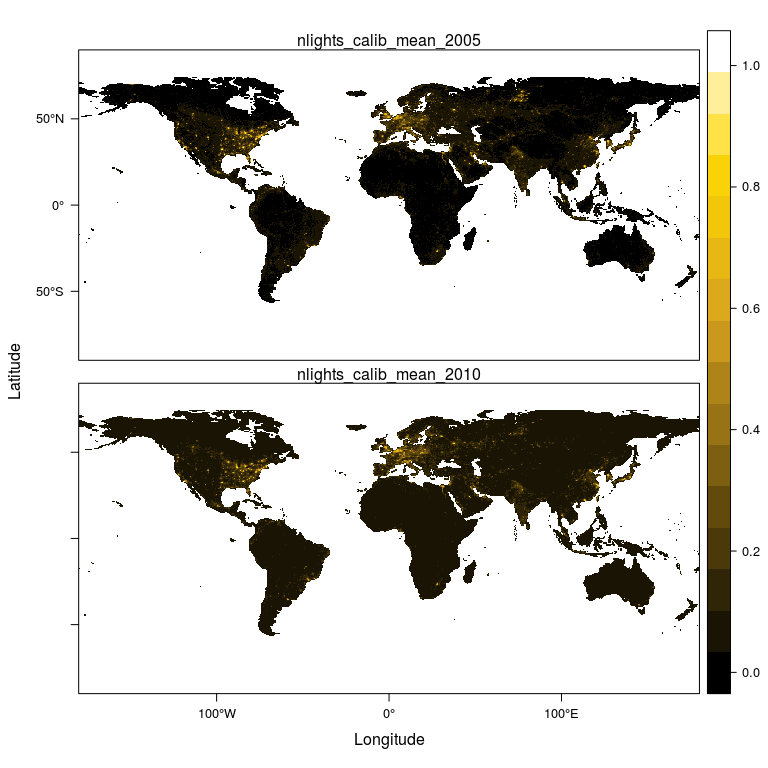
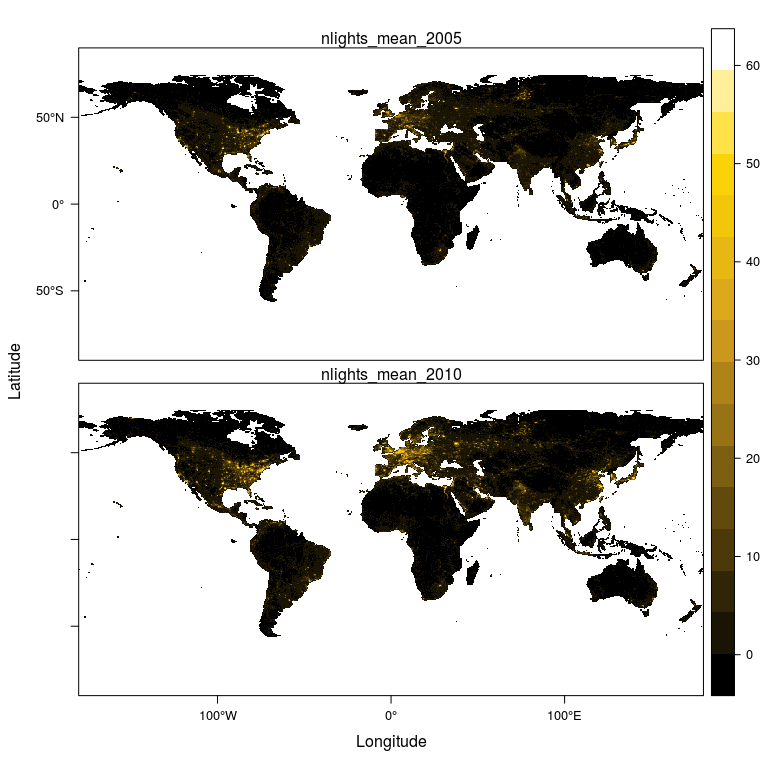
Updated nightlights example.

diff --git a/README.md b/README.md
@@ -86,7 +86,7 @@ Note that `getPrioRaster` returns a list with two elements: (1) the
 actual raster data, and (2) a data frame containing meta data.
 
     ## Get raster data
-    prio.ls <- getPrioRaster(names = c('ttime_mean', 'nlights_calib_mean'), years = 2005:2010)
+    prio.ls <- getPrioRaster(names = c('ttime_mean', 'nlights_mean'), years = 2005:2010)
     prio.vx <- prio.ls$raster
     meta.df <- prio.ls$meta
 
@@ -95,13 +95,13 @@ The meta data frame links the requested variables to the raster bands:
     ## Show meta data
     head(meta.df)
 
-    ##                 name year band
-    ## 1 nlights_calib_mean 2005    1
-    ## 2 nlights_calib_mean 2006    2
-    ## 3 nlights_calib_mean 2007    3
-    ## 4 nlights_calib_mean 2008    4
-    ## 5 nlights_calib_mean 2009    5
-    ## 6 nlights_calib_mean 2010    6
+    ##           name year band
+    ## 1 nlights_mean 2005    1
+    ## 2 nlights_mean 2006    2
+    ## 3 nlights_mean 2007    3
+    ## 4 nlights_mean 2008    4
+    ## 5 nlights_mean 2009    5
+    ## 6 nlights_mean 2010    6
 
 The raster data is returned as a [VeloxRaster
 object](https://github.com/hunzikp/velox). If we want to plot it, we can
@@ -120,7 +120,7 @@ plotting.
                                        rgb(255,215,0,maxColorValue=255), 
                                        "white"), bias = 0.5)
     nightTheme <- rasterTheme(region = nightPalette(20))
-    levelplot(prio.stk[[meta.df$band[meta.df$name == 'nlights_calib_mean' & meta.df$year %in% c(2005,2010)]]], 
+    levelplot(prio.stk[[meta.df$band[meta.df$name == 'nlights_mean' & meta.df$year %in% c(2005,2010)]]], 
               maxpixels = 720*360, 
               par.settings = nightTheme)
 
